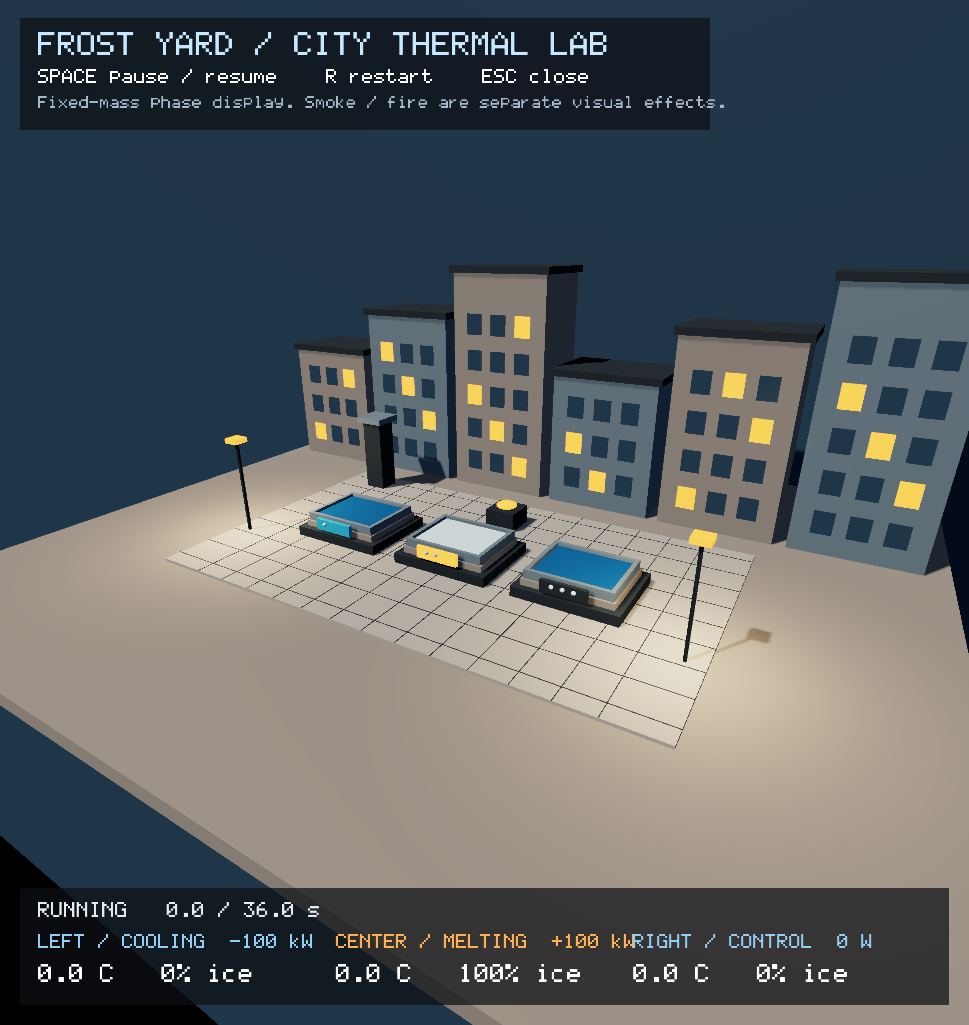
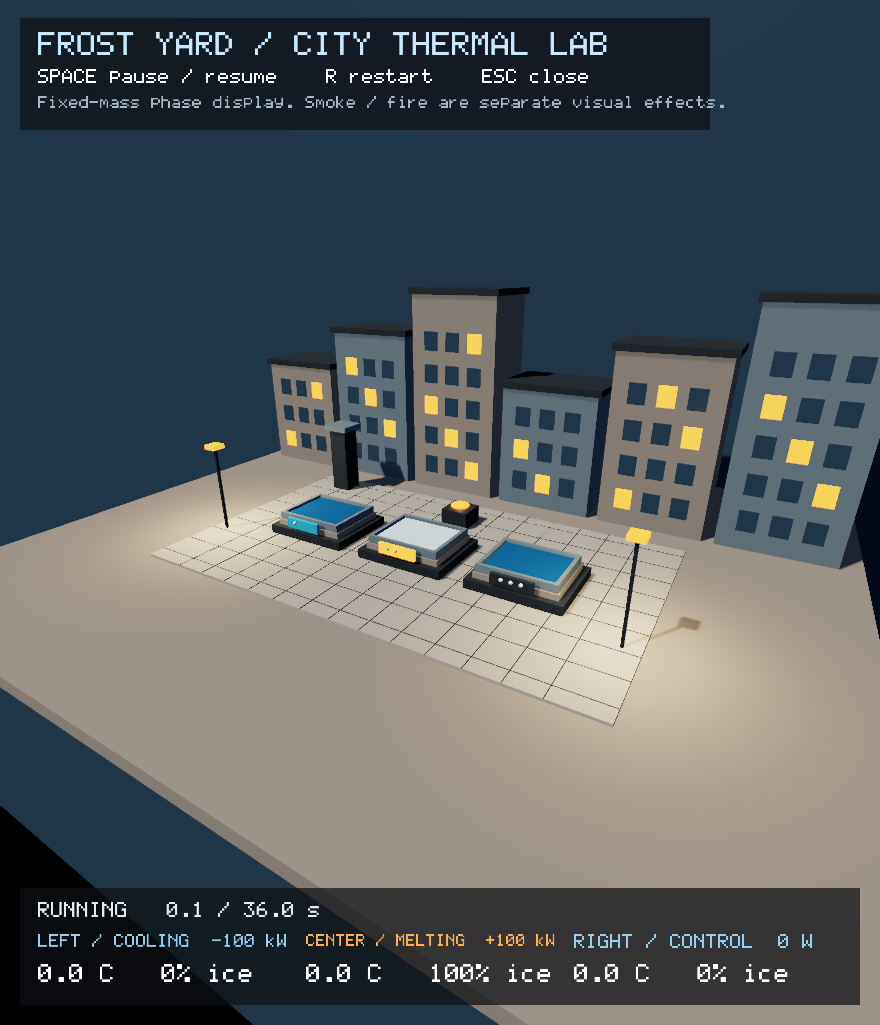
fix(sample): fit courtyard station labels in narrow windows

diff --git a/samples/thermal-courtyard/main.cpp b/samples/thermal-courtyard/main.cpp
@@ -248,12 +248,16 @@ int demo(const std::string& path,
             "LEFT / COOLING  -100 kW", "CENTER / MELTING  +100 kW", "RIGHT / CONTROL  0 W"};
         for (unsigned i = 0; i < 3; ++i) {
             const float x = 38 + float(i) * (w - 76) / 3;
+            const float label_size = std::clamp(
+                ((w - 76) / 3 - 18) / render::text::HudRenderer::text_width(names[i], 1.f),
+                9.f,
+                14.f);
             hud.text(x,
                      static_cast<float>(ctx.extent.height) - 91,
                      names[i],
                      i == 1 ? render::text::Color{1, .69f, .32f, 1}
                             : render::text::Color{.58f, .81f, .95f, 1},
-                     14);
+                     label_size);
             hud.text(x, static_cast<float>(ctx.extent.height) - 61, values[i], {}, 18);
         }
         if (thermal.status() == fluids_scene::PreviewStatus::StepRefused)

diff --git a/HANDOFF-2026-10-18-thermal-courtyard-demo.md b/HANDOFF-2026-10-18-thermal-courtyard-demo.md
@@ -103,3 +103,22 @@ runner17GBfree,minimum15. OwnXvfb/demo processesstopped afterchecks. Olduntracke
 notesbelongtoothers; neveradd-all/delete/reset. Actualglobalrules at
 `/home/next/.claude-switch/profiles/default/CLAUDE.md`; projectCLAUDE,roadmaps,
 brick-deliveryskill. Explicitstage, ownbranches, RESTdraftPR, no mergewithoutgates.
+
+## Final delivery snapshot
+
+Draft demo **#341** https://github.com/LucaSct/rime/pull/341; initial pushed demo
+head dcb4753, followed by narrow-window HUD label spacing polish and these final
+metadata updates. The 36-second native screenshot and actual tiled-window capture
+were rerun for that polish. Implementation remains8727f98 plus this small sample
+follow-up; no numerical/runtime-renderer changes after the boundary proofs.
+
+Parent#340 actual check snapshot: SDK,TSan,lint pass; ASan cancelled; Linux still
+inprogress; hosted checksskipped. Read actual Editor-smoke failure job117795067317,
+run39167968400: only same three blockcollapse/locality claims during authoring
+roundtrip, not a thermal compile defect. Filtered failure retained. Demo#341CI
+is new/pending at snapshot; no finalCI/three-OS green claimed. No merge.
+
+Latest user question answered: editor has visible phase + live thermal inspector,
+smoke/fire and thermal component authoring; browser has no new thermal UI or
+new deployment. Working demo is standalone/native-editor today. Do not start a
+browser rewrite just to finish this session; that is an explicit next brick.

diff --git a/docs/verification/thermal-courtyard-2026-10-18/README.md b/docs/verification/thermal-courtyard-2026-10-18/README.md
@@ -123,3 +123,10 @@ Scratch: `/home/next/reports/rime-thermal-courtyard-2026-10-18/`.
 All PNGs are direct rendered PPM-to-PNG conversions without retouching. The two
 companion readmes document actual commands; external CI status is recorded in
 the final handoff, separately from these local results.
+
+Final PR snapshot: draft [#341](https://github.com/LucaSct/rime/pull/341), with
+small station-label scaling polish verified on the actual narrow native window.
+Parent #340 SDK/TSan/lint pass; ASan cancelled; Linux in progress at snapshot.
+Its Editor-smoke job 117795067317 fails only the inherited three block claims
+in the saved block roundtrip (filtered actual log retained). New child CI is
+pending; hosted draft jobs can be skipped. No external green or merge claimed.
